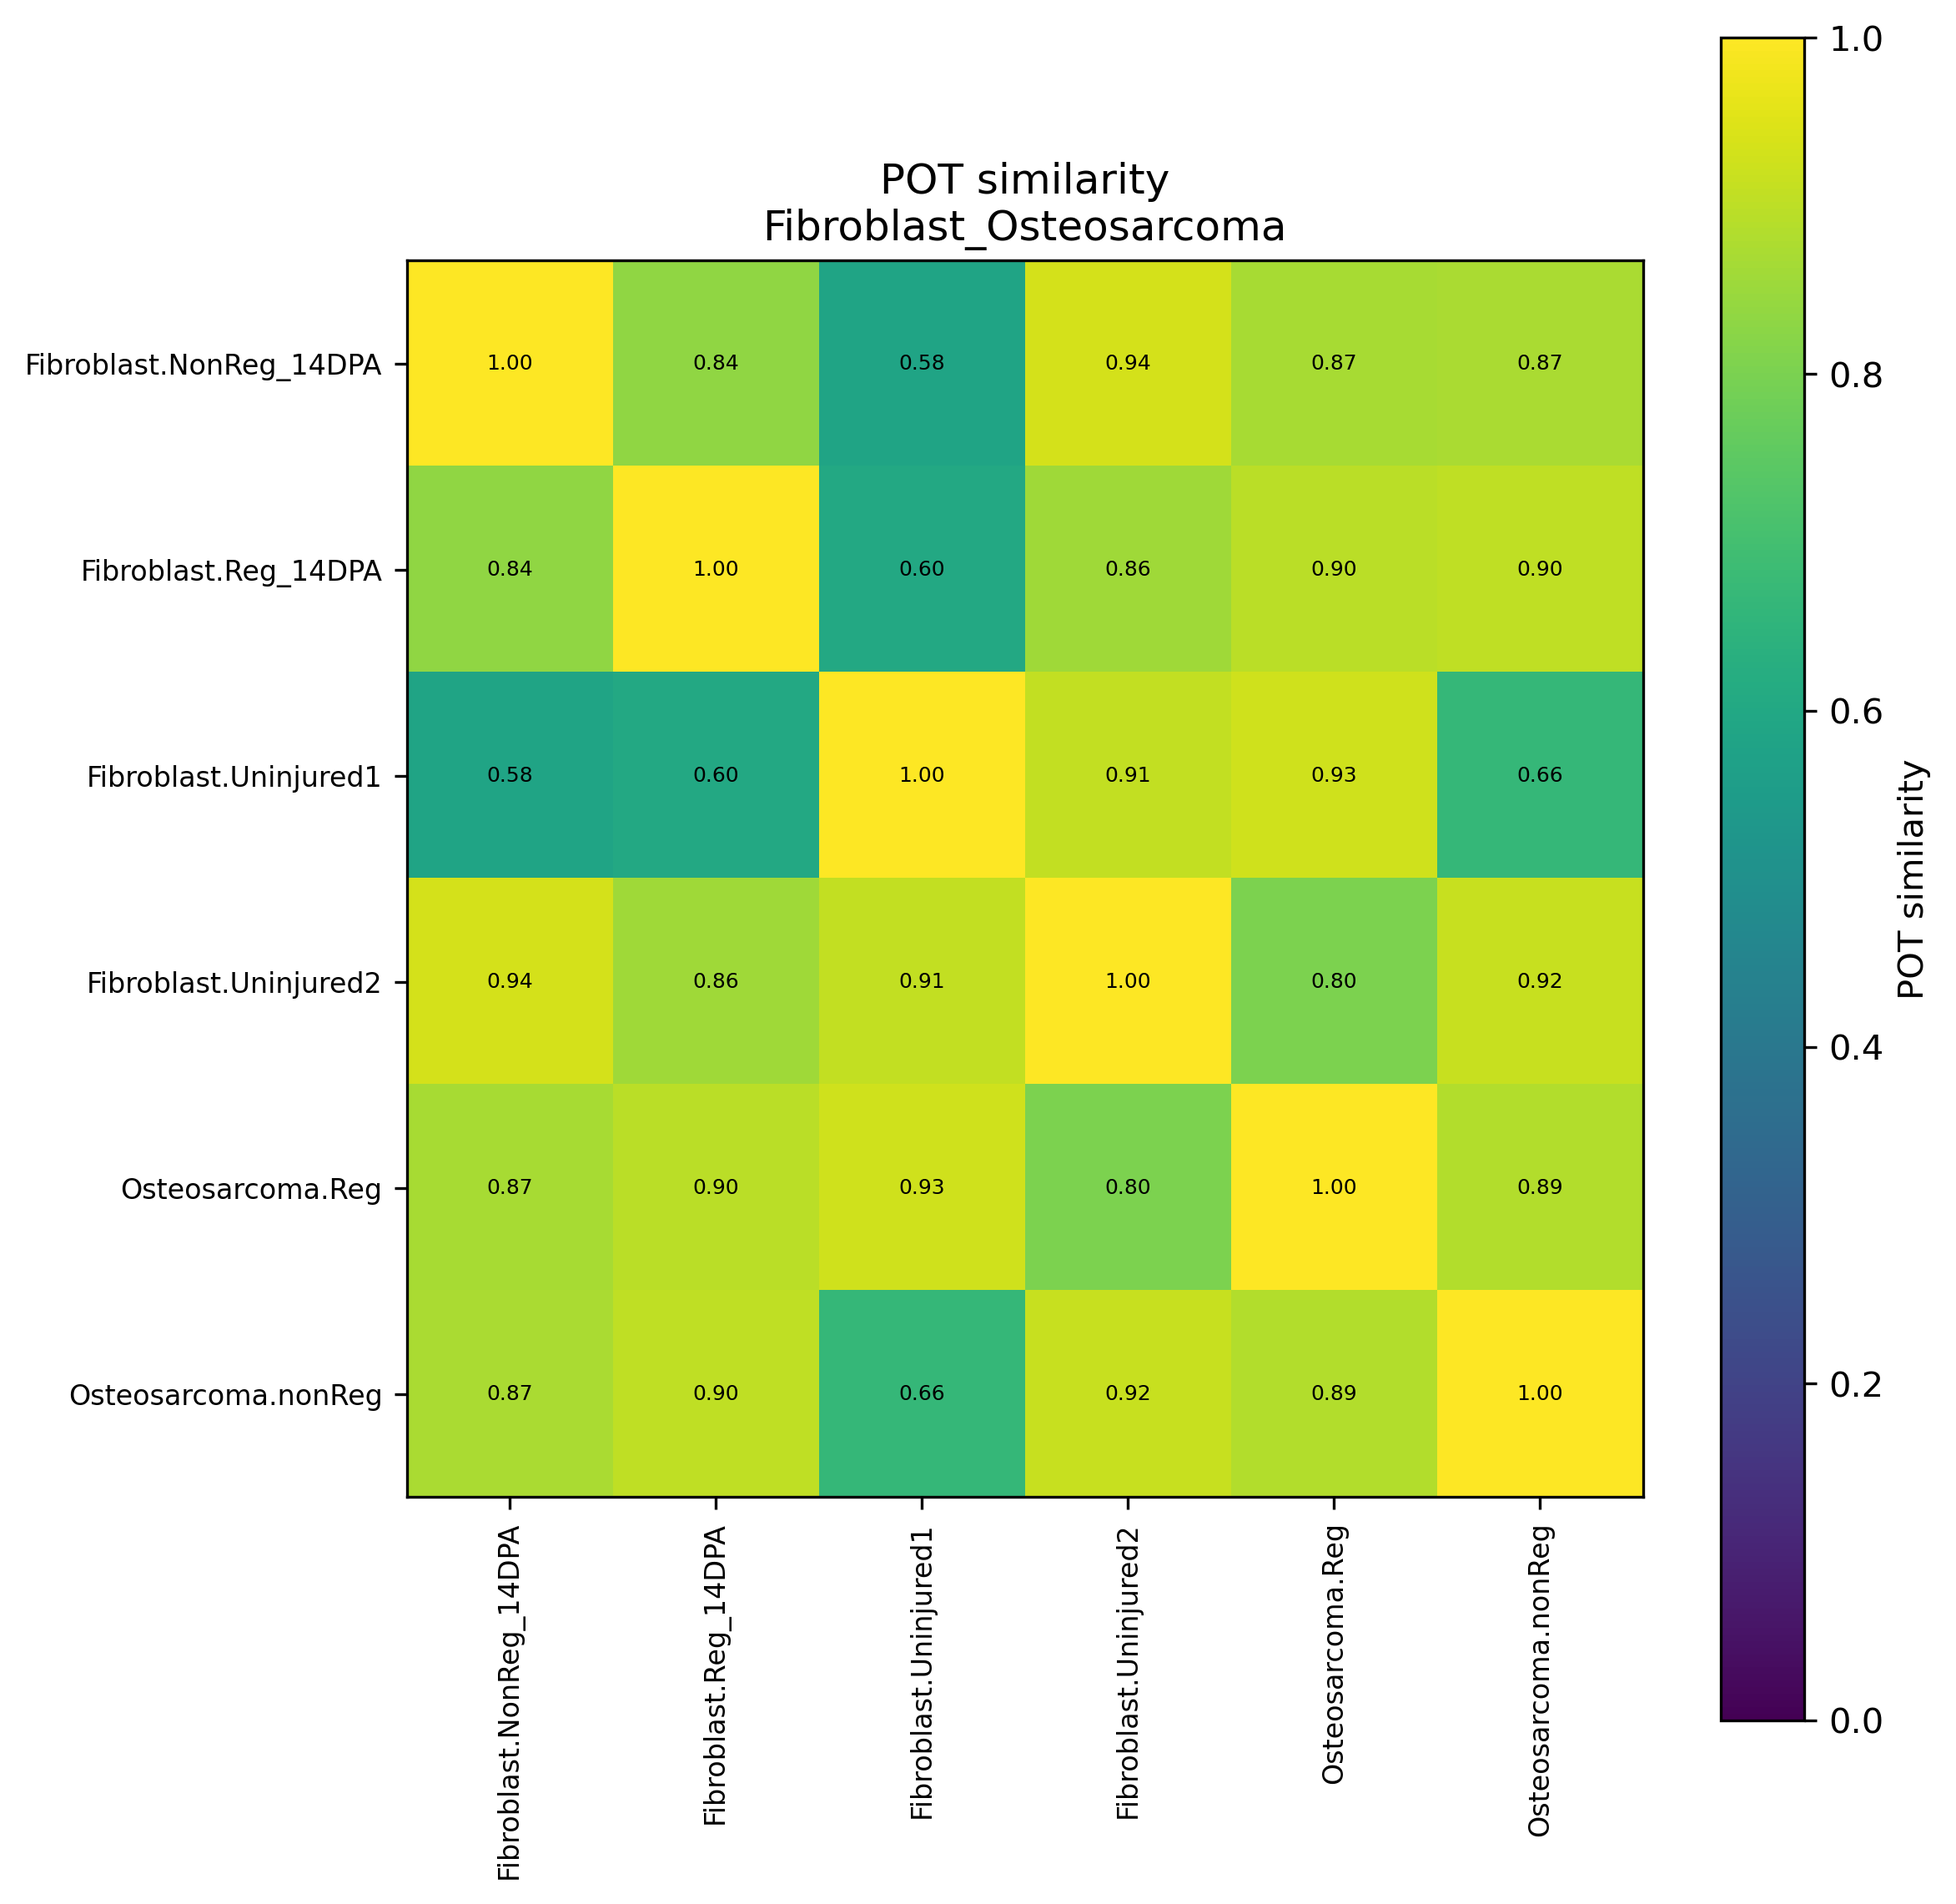
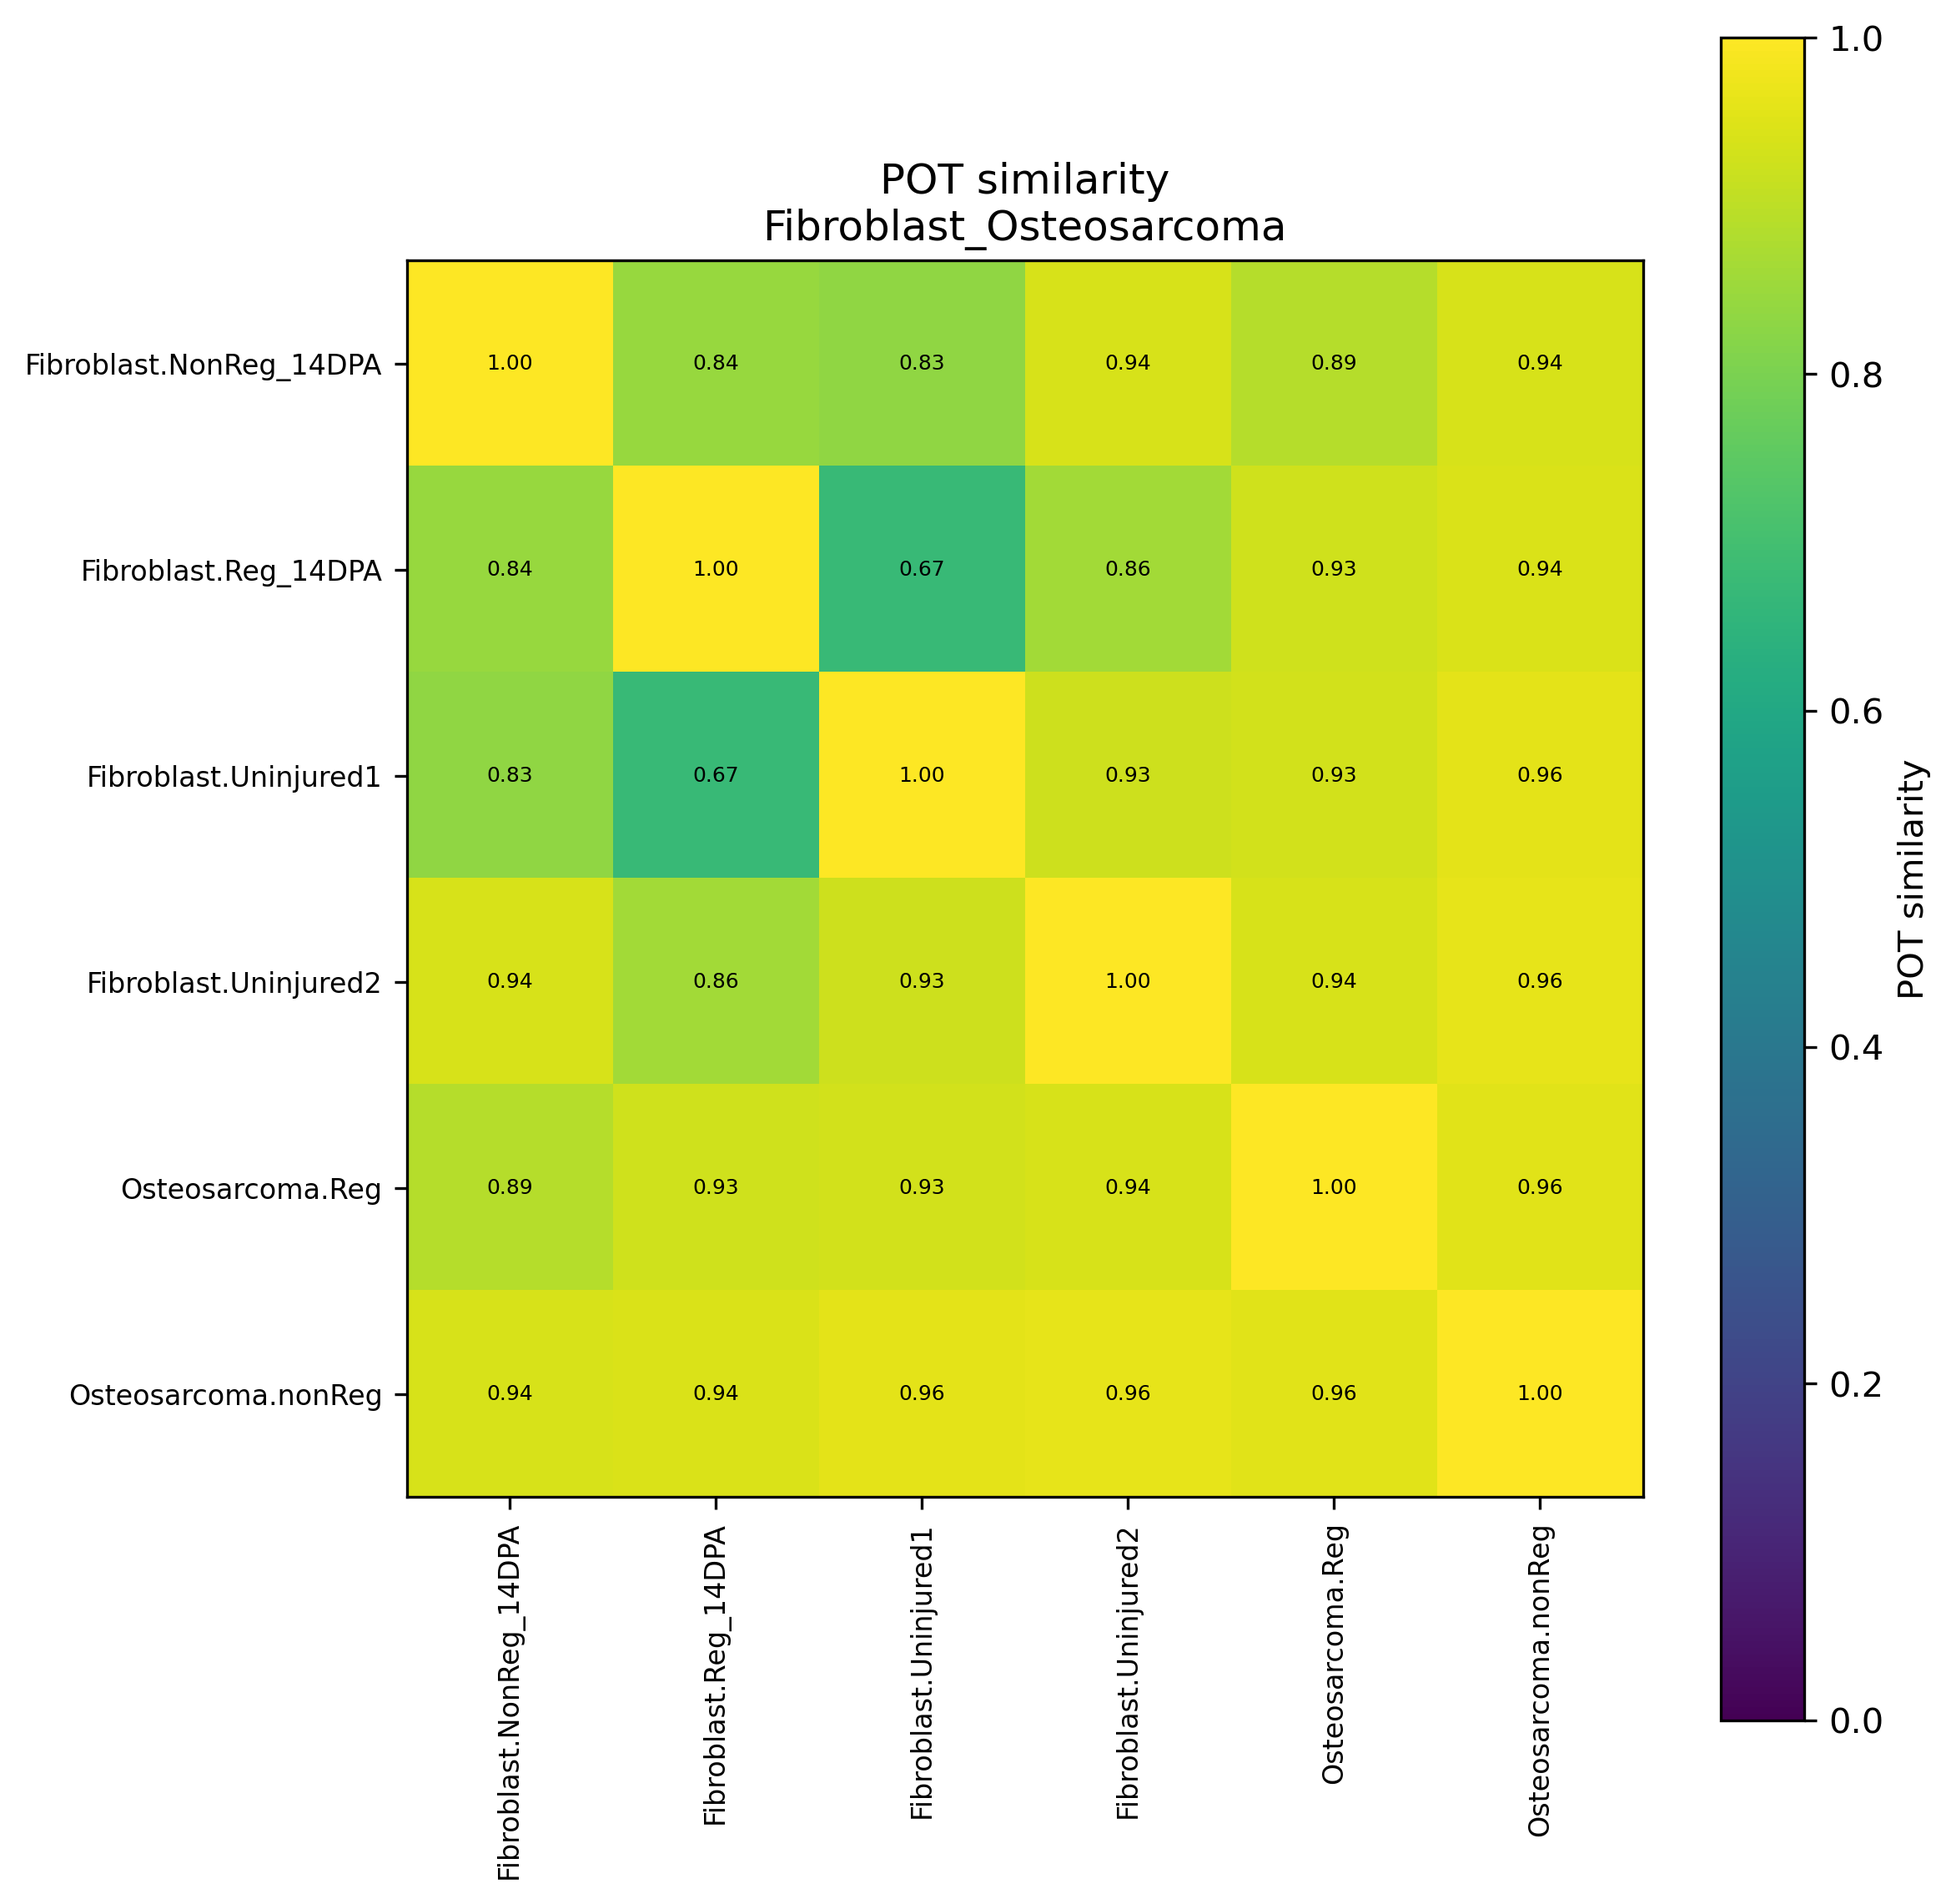
changes to POT max/min cells and layer

Changed region(s): [[0.1868, 0.1245, 0.8405, 0.8089], [0.4047, 0.1245, 0.5292, 0.2489], [0.1868, 0.3422, 0.3113, 0.4667]]

diff --git a/src/POT.py b/src/POT.py
@@ -19,14 +19,13 @@ def get_X(adata, layer):
     return X.toarray() if issparse(X) else X
 
 
-def pot_score(A, B):
+def pot_score(A, B, max_cells, min_cells):
     try:
         if A is None or B is None:
             return np.nan
-        if len(A) < 3 or len(B) < 3:
+        if len(A) < min_cells or len(B) < min_cells:
             return np.nan
         
-        max_cells = 500
         if len(A) > max_cells:
             idx = np.random.choice(len(A), max_cells, replace=False)
             A = A[idx]
@@ -57,21 +56,34 @@ def pot_score(A, B):
 
 def main():
     parser = argparse.ArgumentParser()
-    parser.add_argument("--input", required=True)
-    parser.add_argument("--prefix", required=True)
-    parser.add_argument("--layer", default="log1p")
-    parser.add_argument("--n_pcs", type=int, default=50)
+    parser.add_argument("--input", required=True, help="Input h5ad file")
+    parser.add_argument("--prefix", required=True, help="Output prefix")
+    parser.add_argument("--layer", default="log1p", help="Layer to use for expression")
+    parser.add_argument("--n_pcs", type=int, default=50, help="Number of PCs")
+    parser.add_argument("--max_cells", type=int, default=10000, help="Maximum cells to subsample per group")
+    parser.add_argument("--min_cells", type=int, default=3, help="Minimum cells required per group")
+    parser.add_argument("--hvg", type=int, default=0, help="Number of highly variable genes to use (0 = use all genes)")
     args = parser.parse_args()
 
     print("Loading data...")
     adata = sc.read_h5ad(args.input)
 
     # =====================================================
+    # OPTIONAL: FILTER TO HIGHLY VARIABLE GENES
+    # =====================================================
+    if args.hvg > 0:
+        print(f"Filtering to top {args.hvg} highly variable genes...")
+        sc.pp.highly_variable_genes(adata, n_top_genes=args.hvg, batch_key='sample', flavor='seurat_v3')
+        adata = adata[:, adata.var.highly_variable]
+        print(f"Kept {adata.shape[1]} genes")
+    else:
+        print("Using all genes")
+
+    # =====================================================
     # FILTER OUT ZERO-CELL COMBINATIONS
     # =====================================================
     print("Filtering out celltype-sample combinations with zero cells...")
     
-    # Get only combinations that have cells
     valid_groups = adata.obs.groupby(['celltype', 'sample']).size()
     valid_groups = valid_groups[valid_groups > 0]
     
@@ -79,7 +91,6 @@ def main():
     for (ct, s), n in valid_groups.items():
         print(f"  {ct}.{s}: {n} cells")
     
-    # Create filtered list
     celltypes = sorted(set([ct for ct, s in valid_groups.index]))
     samples = sorted(set([s for ct, s in valid_groups.index]))
     
@@ -107,7 +118,7 @@ def main():
     print(f"PCA shape: {X_pca.shape}")
 
     # =====================================================
-    # CREATE STATES DICTIONARY (ONLY VALID ONES)
+    # CREATE STATES DICTIONARY
     # =====================================================
     states = {}
     idx = 0
@@ -128,18 +139,20 @@ def main():
     # =====================================================
     matrix = np.zeros((n_states, n_states))
     
-    print("\nComputing POT similarity...\n")
+    print("\nComputing POT similarity...")
+    print(f"Parameters: max_cells={args.max_cells}, min_cells={args.min_cells}, hvg={args.hvg}\n")
+    
     for i, k1 in enumerate(keys):
         for j, k2 in enumerate(keys):
             if i == j:
                 matrix[i, j] = 1.0
             elif i < j:
-                matrix[i, j] = pot_score(states[k1], states[k2])
+                matrix[i, j] = pot_score(states[k1], states[k2], args.max_cells, args.min_cells)
                 matrix[j, i] = matrix[i, j]
         print(f"  done: {k1[0]}.{k1[1]}")
     
     # =====================================================
-    # PLOT (NO NANs BECAUSE WE EXCLUDED EMPTY GROUPS)
+    # PLOT
     # =====================================================
     os.makedirs("figures", exist_ok=True)
     
@@ -152,7 +165,6 @@ def main():
     plt.xticks(range(n), labels, rotation=90, fontsize=8)
     plt.yticks(range(n), labels, fontsize=8)
     
-    # Add text values
     for i in range(n):
         for j in range(n):
             val = matrix[i, j]
@@ -160,10 +172,11 @@ def main():
                 color = "white" if val < 0.5 else "black"
                 plt.text(j, i, f"{val:.2f}", ha="center", va="center", fontsize=6, color=color)
     
-    plt.title(f"POT similarity\n{args.prefix}")
+    hvg_text = f"_hvg{args.hvg}" if args.hvg > 0 else ""
+    plt.title(f"POT similarity (HVG={args.hvg if args.hvg > 0 else 'all'})\n{args.prefix}")
     plt.tight_layout()
     
-    out = f"figures/{args.prefix}_pot_matrix.png"
+    out = f"figures/{args.prefix}_pot{hvg_text}_matrix.png"
     plt.savefig(out, dpi=300, bbox_inches="tight")
     plt.close()
     
